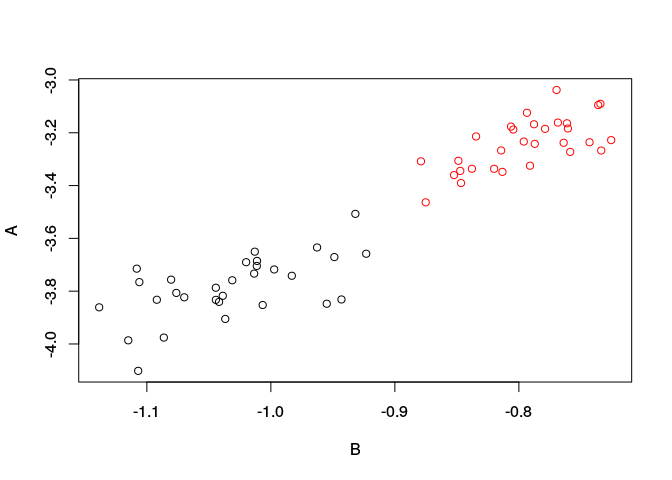
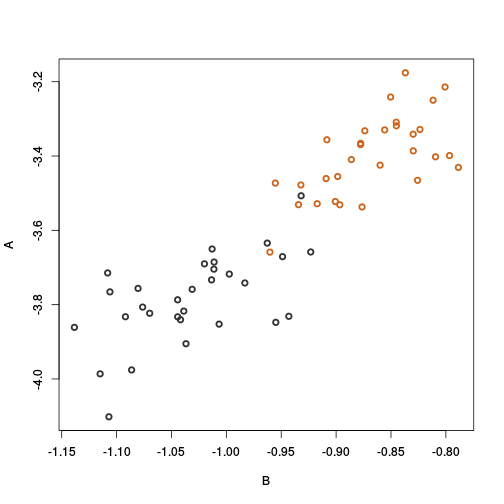
readme update

diff --git a/README.md b/README.md
@@ -1,16 +1,22 @@
+---
+output: github_document
+---
 
-<!-- Note: edits should be made in the READ.Rmd file -->
-ecomplex
-========
+<!-- README.md is generated from README.Rmd. Please edit that file -->
 
-R package for efficiently computing the epsilon-complexity coefficients of a time series. The coefficients are intended to characterize the functional complexity or regularity of a time series.
 
-An example
-==========
+
+# ecomplex
+
+R package for efficiently computing the epsilon-complexity coefficients of a time series. The coefficients are a 
+measure of the complexity of a time series.
+
+# An example 
 
 The complexity coefficients have been used as a feature in classification and clustering tasks. Here we look at how well the coefficients discriminate between two sets of time serires drawn from ARMA(2,2) models with one AR parameter changed.
 
-``` r
+
+```r
 library(ecomplex)
 set.seed(1)
 reps   <- 30
@@ -18,7 +24,7 @@ group1 <- replicate(30, arima.sim(n = 500, list(ar = c(0.89, -0.49),
                                                 ma = c(-0.23, 0.25))))
          
 
-group2 <- replicate(30, arima.sim(n = 500, list(ar = c(0.59, -0.49),
+group2 <- replicate(30, arima.sim(n = 500, list(ar = c(0.69, -0.49),
                                                 ma = c(-0.23, 0.25))))
 ecomp1 <- apply(group1, 2, ecomplex)
 ecomp2 <- apply(group2, 2, ecomplex)
@@ -27,27 +33,49 @@ coeffs <- lapply(c(ecomp1, ecomp2), function(fit) c(fit$A, fit$B))
 df     <- data.frame(do.call(rbind, coeffs))
 df$id  <- factor(rep(c(1,2), each = 30))
 names(df) <- c("A", "B", "id")
-with(df, plot(B, A, col = id))
+
+palette(c("gray20", "chocolate3"))
+with(df, plot(B, A, col = id, lwd = 2.5))
 ```
 
-![](tools/README-arimasim-1.png)
+![plot of chunk arimasim](README-arimasim-1.png)
 
-The basic algorithm
-===================
+And a plot of a sample from each ARMA(2,2) group on the same 
+axis. 
 
-The `ecomplex` function successively down samples and approximates a time series. The minimum absolute error fit at each downsample is calculated. A log-log linear model is fit to the errors regressed against the percentage of data used in the approximation and the coefficients of the linear model are the two epsilon-complexity coefficients.
 
-See [Binary classification of multi-channel EEG records based on the epsilon-complexity of continuous vector functions](https://arxiv.org/pdf/1610.01633.pdf)
+```r
+# plot sample of each group
+plot(c(group1[,1]), xlim = c(0,1000), ylab = "", 
+                                      main = title, 
+                                      col = "gray20", 
+                                      lwd = 1.5, type ='l')
+lines(501:1000, group2[,1], col = "chocolate3", lwd = 1.5)
+abline(v = c(500), lwd = 4, col = "gray20")
+```
 
-Installation
-============
+![plot of chunk ts](README-ts-1.png)
 
-``` r
+```r
+palette("default")
+```
+
+# The basic algorithm
+
+The `ecomplex` function successively down samples and approximates a time series. The coefficients are the parameters of a log-log regression of the set of approximation errors on the fraction of sample points retained for each approximation. Roughly, the coefficients measure the amount of information (the fraction of samples) needed to approximate a function within some error epsilon.
+
+See Darkhovsky and Piryatinska, [Binary classification of multi-channel EEG records based on the epsilon-complexity of continuous vector functions](https://arxiv.org/pdf/1610.01633.pdf).
+
+# Installation
+
+
+```r
 # install.packages('devtools')
 devtools::install_github('nwaff/ecomplex')
 ```
+# Future work 
 
-Future work
-===========
+The package is in development but the `ecomplex` interface should be fairly stable. The `ecomplex` function computes the error on single variable time series but an option might be added to compute the epsilon-complexity coefficients for a multivariate time series.  
 
-The package is in development but the `ecomplex` interface should be stable. The package also includes the `palarm` function which is a change point algorithm. The interface and return types of that function will likely be updated in the near future. The simulation and feature extraction functions were used in a separate analysis and will be moved to a separate package to reduce the number of package dependencies.
+The `palarm` function included in the package is a change point detection algorithm. There will likely be minor changes to return 
+type of the function in the near future.
